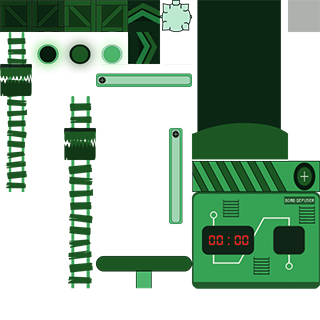
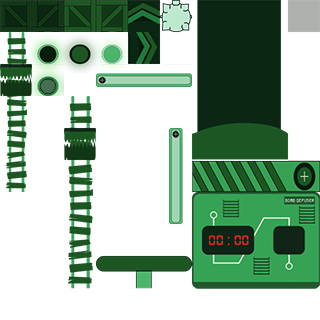
ajout son bomb et fin du niveau 2

Changed region(s): [[0.0938, 0.2188, 0.2188, 0.3125]]

diff --git a/Rabidja/map.cpp b/Rabidja/map.cpp
@@ -220,17 +220,17 @@ void Map::GenerateTerrainWithFile(int nb)
 				}
 				else if (lignes[i][j] == 11)
 				{
-					powers.push_back(new Power(Power::type::green, 10.0f, j, i, this));
+					powers.push_back(new Power(Power::type::green, 10.0f, j, i, this, 0));
 					canDraw = false;
 				}
 				else if (lignes[i][j] == 12)
 				{
-					powers.push_back(new Power(Power::type::red, 20.0f, j, i, this));
+					powers.push_back(new Power(Power::type::red, 20.0f, j, i, this, 1));
 					canDraw = false;
 				}
 				else if (lignes[i][j] == 13)
 				{
-					powers.push_back(new Power(Power::type::yellow, 10.0f, j, i, this));
+					powers.push_back(new Power(Power::type::yellow, 10.0f, j, i, this, 2));
 					canDraw = false;
 				}
 				else if (lignes[i][j] == 56 || lignes[i][j] == 57 || lignes[i][j] == 58 || lignes[i][j] == 84 || lignes[i][j] == 85
@@ -263,6 +263,7 @@ void Map::GenerateTerrainWithFile(int nb)
 			}
 			else if (nb == 4)
 			{
+				SetCanFinish(true);
 				bool canDraw = true;
 				if (lignes[i][j] == 19)
 				{
@@ -271,17 +272,22 @@ void Map::GenerateTerrainWithFile(int nb)
 				}
 				else if (lignes[i][j] == 11)
 				{
-					powers.push_back(new Power(Power::type::green, 10.0f, j, i, this));
+					powers.push_back(new Power(Power::type::green, 20.0f, j, i, this, 2));
 					canDraw = false;
 				}
 				else if (lignes[i][j] == 12)
 				{
-					powers.push_back(new Power(Power::type::red, 20.0f, j, i, this));
+					powers.push_back(new Power(Power::type::red, 20.0f, j, i, this, 0));
 					canDraw = false;
 				}
 				else if (lignes[i][j] == 13)
 				{
-					powers.push_back(new Power(Power::type::yellow, 10.0f, j, i, this));
+					powers.push_back(new Power(Power::type::yellow, 10.0f, j, i, this, 3));
+					canDraw = false;
+				}
+				else if (lignes[i][j] == 21)
+				{
+					powers.push_back(new Power(Power::type::blue, 10.0f, j, i, this, 4));
 					canDraw = false;
 				}
 				else if (lignes[i][j] == 56 || lignes[i][j] == 57 || lignes[i][j] == 58 || lignes[i][j] == 84 || lignes[i][j] == 85
@@ -337,6 +343,26 @@ Tile* Map::GetTile(int tileNumber)
 	return nullptr;
 }
 
+vector< Tile* > Map::GetTiles(int tileNumber)
+{
+	int x = Data::Instance()->TILE_X;
+	int y = Data::Instance()->TILE_Y;
+
+	vector< Tile* > foo;
+
+	for (int i = 0; i < y; ++i)
+	{
+		for (int j = 0; j < x; ++j)
+		{
+			if (tile[j][i] != nullptr && tile[j][i]->GetTileType() == tileNumber)
+			{
+				foo.push_back(tile[j][i]);
+			}
+		}
+	}
+	return foo;
+}
+
 void Map::LoadLevel(int nb)
 {
 	string name = "map/map" + to_string(nb) + ".txt";
@@ -389,7 +415,7 @@ void Map::LoadLevel(int nb)
 	}
 	file.close();
 
-	GenerateTerrainWithFile();
+	GenerateTerrainWithFile(nb);
 }
 
 int Map::GetStartX()

diff --git a/Rabidja/Power.cpp b/Rabidja/Power.cpp
@@ -6,6 +6,7 @@
 #include "Map.h"
 #include "Blocker.h"
 #include "EndingPlateform.h"
+#include "Elevator.h"
 
 Power::Power(type aType, float aTimeToRespawn, int aPosX, int aPosY, Map* theMap, int theTypeExecution)
 {
@@ -27,8 +28,12 @@ Power::Power(type aType, float aTimeToRespawn, int aPosX, int aPosY, Map* theMap
 	{
 		theTileType = 13;
 	}
+	else if (currentType == type::blue)
+	{
+		theTileType = 21;
+	}
 
-	if (!texture.loadFromFile("graphics/level1TileSheet2.png"))
+	if (!texture.loadFromFile("graphics/level1TileSheet2test.png"))
 	{
 		// Error
 		cout << "Error while loading the texture of the player." << endl;
@@ -173,6 +178,28 @@ void Power::Activate()
 		map->GetTile(55)->Hide();
 		map->GetTile(65)->Hide();
 	}
+	else if (typeExecution == 3)
+	{
+		map->GetElevator()->Invert();
+	}
+	else if (typeExecution == 4)
+	{
+		vector<Tile*> t = map->GetTiles(23);
+		for (int i = 0; i < t.size(); i++)
+		{
+			t.at(i)->Hide();
+		}
+		vector<Tile*> t2 = map->GetTiles(24);
+		for (int i = 0; i < t2.size(); i++)
+		{
+			t2.at(i)->Hide();
+		}
+		vector<Tile*> t3 = map->GetTiles(25);
+		for (int i = 0; i < t3.size(); i++)
+		{
+			t3.at(i)->Hide();
+		}
+	}
 
 
 	/*if (currentType == type::green)
@@ -194,7 +221,47 @@ void Power::Activate()
 
 void Power::Desactivate()
 {
-	if (currentType == type::green)
+
+	if (typeExecution == 0)
+	{
+		map->GetEnding()->SetMove(false);
+		map->GetEnding()->SetRetour(true);
+	}
+	else if (typeExecution == 1)
+	{
+		map->GetBlockers().at(0)->Rotate(true);
+		map->SetCanFinish(true);
+	}
+	else if (typeExecution == 2)
+	{
+		map->GetTile(45)->Show();
+		map->GetTile(55)->Show();
+		map->GetTile(65)->Show();
+	}
+	else if (typeExecution == 3)
+	{
+		//map->GetElevator()->Invert();
+	}
+	else if (typeExecution == 4)
+	{
+		vector<Tile*> t = map->GetTiles(23);
+		for (int i = 0; i < t.size(); i++)
+		{
+			t.at(i)->Show();
+		}
+		vector<Tile*> t2 = map->GetTiles(24);
+		for (int i = 0; i < t2.size(); i++)
+		{
+			t2.at(i)->Show();
+		}
+		vector<Tile*> t3 = map->GetTiles(25);
+		for (int i = 0; i < t3.size(); i++)
+		{
+			t3.at(i)->Show();
+		}
+	}
+
+	/*if (currentType == type::green)
 	{
 		map->GetEnding()->SetMove(false);
 		map->GetEnding()->SetRetour(true);
@@ -209,7 +276,7 @@ void Power::Desactivate()
 		map->GetTile(45)->Show();
 		map->GetTile(55)->Show();
 		map->GetTile(65)->Show();
-	}
+	}*/
 }
 
 void Power::PlayPut()

diff --git a/Rabidja/Bomb.cpp b/Rabidja/Bomb.cpp
@@ -24,6 +24,16 @@ Bomb::Bomb(string tileName, int theX, int theY)
 		soundExplosion.setBuffer(bufferExplosion);
 	}
 
+	if (!bufferBip.loadFromFile("sound/bip.wav"))
+	{
+		// Error
+		cout << "Error while loading the sound bip of the bomb." << endl;
+	}
+	else
+	{
+		soundBip.setBuffer(bufferBip);
+	}
+
 	width = 32;
 	height = 32;
 	x = theX * width;
@@ -31,9 +41,11 @@ Bomb::Bomb(string tileName, int theX, int theY)
 	sprite.setPosition(Vector2f((float)x, (float)y));
 	sprite.setTextureRect(sf::IntRect(xSprite * width, ySprite * height, width, height));
 	currentTime = 0;
-	timeToExplode = 40.0f;
+	timeToExplode = 70.0f;
 	activated = false;
 	exploded = false;
+	timeToBip = 1.0f;
+	currentTimeToBip = 0.0f;
 }
 
 Bomb::~Bomb()
@@ -48,6 +60,31 @@ void Bomb::Draw(sf::RenderWindow & window)
 
 void Bomb::Update(Input * input, Time time)
 {
+
+	currentTimeToBip += time.asMilliseconds();
+	if (currentTimeToBip / 1000 >= timeToBip)
+	{
+		currentTimeToBip = 0.0f;
+		soundBip.play();
+	}
+
+	if (currentTime / 1000 >= timeToExplode * 0.9f)
+	{
+		timeToBip = 0.1f;
+	}
+	else if (currentTime / 1000 >= timeToExplode * 0.7f)
+	{
+		timeToBip = 0.3f;
+	}
+	else if (currentTime / 1000 >= timeToExplode * 0.5f)
+	{
+		timeToBip = 0.5f;
+	}
+	else if (currentTime / 1000 >= timeToExplode * 0.3f)
+	{
+		timeToBip = 0.75f;
+	}
+
 	if (debug)
 	{
 		Debug::Instance()->AddDebug("Bomb : " + to_string(currentTime / 1000), false, 15, Color::Red);
@@ -74,4 +111,9 @@ void Bomb::PlayExplosion()
 void Bomb::Activate()
 {
 	activated = true;
+}
+
+bool Bomb::GetExploded()
+{
+	return exploded;
 }

diff --git a/Rabidja/Elevator.cpp b/Rabidja/Elevator.cpp
@@ -40,7 +40,7 @@ void Elevator::Update(Input * input, Time time)
 {
 	if (up)
 	{
-		y -= 1;
+		y -= speed;
 		if (y <= limitY)
 		{
 			y = limitY;
@@ -53,7 +53,7 @@ void Elevator::Update(Input * input, Time time)
 	}
 	else
 	{
-		y += 1;
+		y += speed;
 		if (y >= yPos)
 		{
 			y = yPos;
@@ -74,4 +74,9 @@ void Elevator::SetPlayer(Player * thePl)
 Player* Elevator::GetPlayer()
 {
 	return thePlayer;
+}
+
+void Elevator::Invert()
+{
+	up = !up;
 }

diff --git a/Rabidja/Bomb.h b/Rabidja/Bomb.h
@@ -18,6 +18,8 @@ public:
 
 	void Activate();
 
+	bool GetExploded();
+
 private:
 	int xSprite;
 	int ySprite;
@@ -25,8 +27,14 @@ private:
 	sf::SoundBuffer bufferExplosion;
 	sf::Sound soundExplosion;
 
+	sf::SoundBuffer bufferBip;
+	sf::Sound soundBip;
+
 	float timeToExplode;
 	float currentTime;
+
+	float timeToBip;
+	float currentTimeToBip;
 
 	bool activated;
 	bool exploded;

diff --git a/Rabidja/EndingPlateform.cpp b/Rabidja/EndingPlateform.cpp
@@ -75,6 +75,11 @@ void EndingPlateform::Update(Input * input, Time time)
 			retour = false;
 		}
 	}
+	if (theBomb->GetExploded())
+	{
+		sleep(Time(milliseconds(1500)));
+		theMap->SetGameOver(true);
+	}
 }
 
 void EndingPlateform::SetMove(bool state)

diff --git a/Rabidja/Power.h b/Rabidja/Power.h
@@ -14,6 +14,7 @@ public:
 		yellow,
 		red,
 		green,
+		blue,
 	};
 
 	Power(type aType, float aTimeToRespawn, int aPosX, int aPosY, Map* theMap, int theTypeExecution);

diff --git a/Rabidja/map.h b/Rabidja/map.h
@@ -48,6 +48,7 @@ public:
 
 	Tile* GetTile(int x, int y);
 	Tile* GetTile(int tileNumber);
+	vector< Tile* > GetTiles(int tileNumber);
 
 	void LoadLevel(int nb);
 

diff --git a/Rabidja/Elevator.h b/Rabidja/Elevator.h
@@ -18,6 +18,8 @@ public:
 	void SetPlayer(Player* thePl);
 	Player* GetPlayer();
 
+	void Invert();
+
 private:
 
 	int xSprite;
